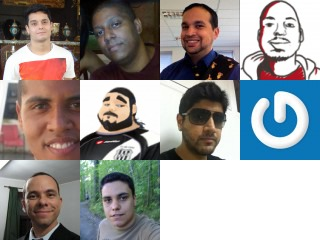
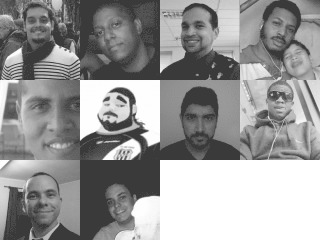
Some refactoring in variable names and adds brightness control

diff --git a/app.rb b/app.rb
@@ -17,13 +17,16 @@ get '/' do
     '06e4c84000579d88c9298a6616a42e29'
   ]
 
-  image = Magick::ImageList.new
+  images = Magick::ImageList.new
 
   gravatars.each do |gravatar|
-    image.from_blob(open("http://www.gravatar.com/avatar/#{gravatar}").read)
+    images.from_blob(open("http://www.gravatar.com/avatar/#{gravatar}").read)
   end
 
-  image.montage{self.geometry = "+0+0"}.write("./public/generated_gravatars_montage.jpg")
+  images = images.quantize(256, Magick::GRAYColorspace)
+
+  image = images.montage{ self.geometry = "+0+0" }
+  image.level(-Magick::QuantumRange * 0.15, Magick::QuantumRange, 1).write("./public/generated_gravatars_montage.jpg")
 
   erb "<img src='generated_gravatars_montage.jpg' />"
 end
